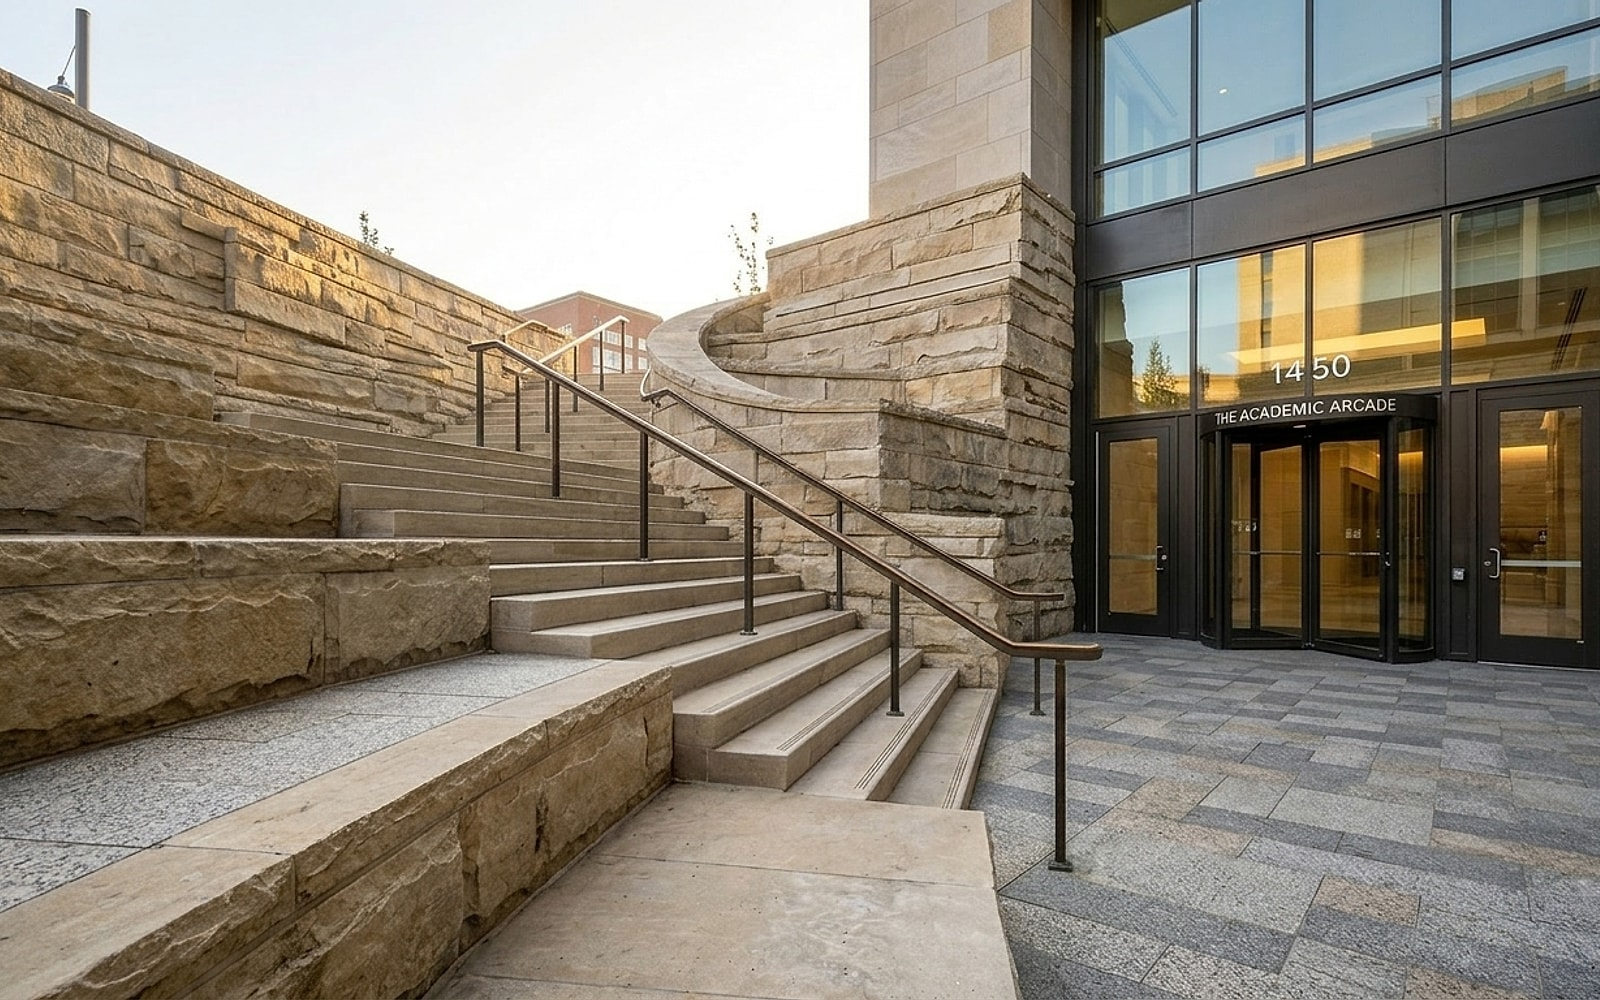
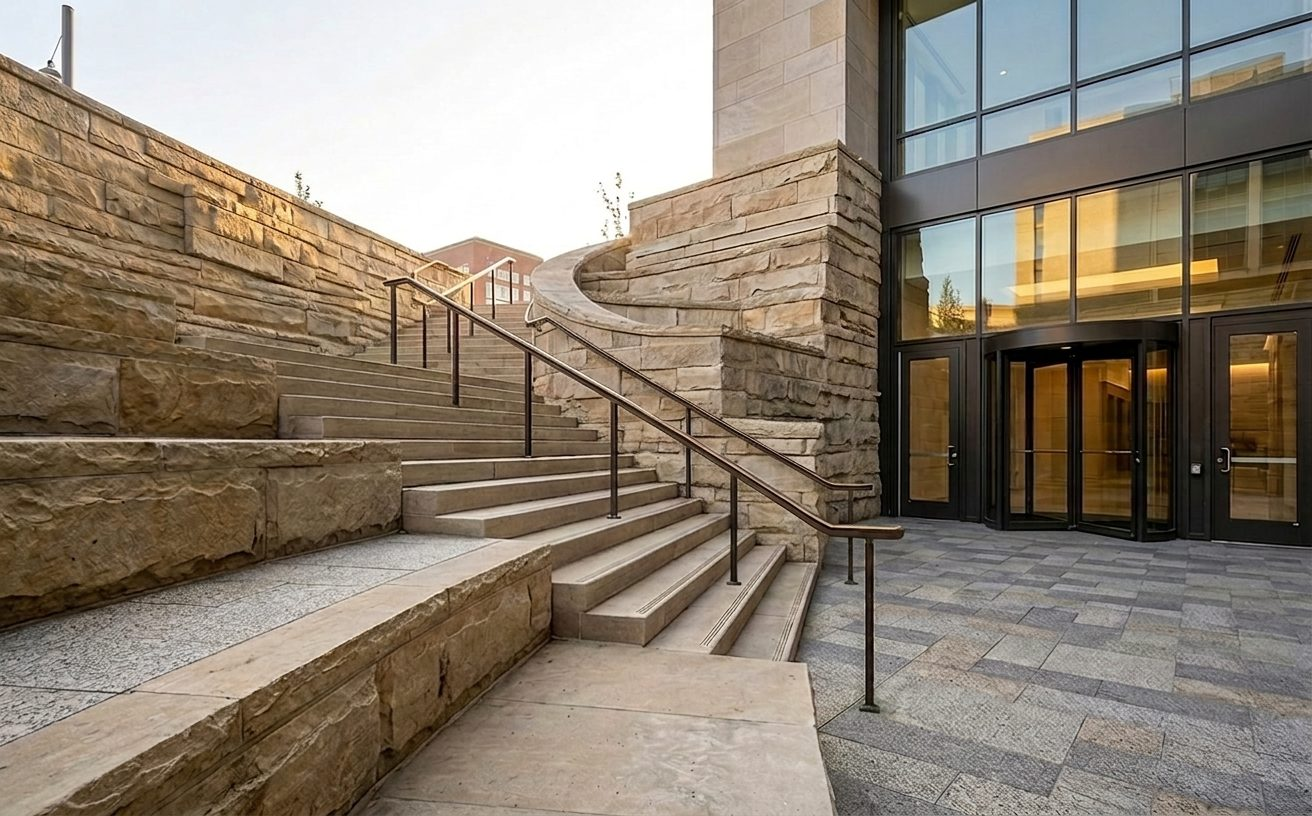
feat(fotos): 44 fotos de obra y reemplazos aprobados (HUB + MAAT), con prueba de integración
OK de Randhy, 8-nov 18:35 RD (a ATLAS): «si me gustaria verlas por el túnel primero asi que si aplicalas».
Generadas con Vertex (proyecto kofacture): 107 intentos para 44 aprobadas, revisadas una por una con
revisión adversaria de sentido (¿posible? ¿secuencia real del oficio? ¿lo reconocería un contratista?),
sin personas, sin texto ni marcas.

- 5 REEMPLAZOS en su misma ruta (sin persona, sin texto ni marca, mismo encuadre):
  cx_i2, mkt-mf-stone-entry, com-plaza-stone, mkt-com-stone-masonry, interior-commercial-boardroom-atrium.
- 39 NUEVAS de obra en public/curated/obra/<división>/ (JPG, lado largo 1600 px, 104–331 KB):
  4 de Roofing (piloto) + 35 para que cada servicio × división tenga ≥2 fotos de obra en proceso.
- tests/fixtures/obra-fotos-mapa.json: división → specialtyId → ruta → título corto (≤40, sin la
  división ni códigos).
- tests/division-obra-photos.test.ts: cada foto nueva está en la galería de su servicio con su título.
  Hoy en ROJO: falta que ATLAS las conecte en las galerías.

diff --git a/tests/division-obra-photos.test.ts b/tests/division-obra-photos.test.ts
@@ -1,0 +1,39 @@
+import { test } from 'node:test';
+import assert from 'node:assert/strict';
+import { readFileSync } from 'node:fs';
+import path from 'node:path';
+import { getMarketSpecialtiesByCategory } from '../lib/property-catalog';
+import { buildSpecialtyWalkthroughStops } from '../components/PropertyWalkthroughStudio';
+import { getDivisionExtraSpecialtyFrames } from '../components/PropertyCategoryShowcase';
+
+// Randhy, 8-nov-2026: every service gallery shows work in progress, not only finished jobs, with no
+// people, text or brands. 39 new photos (≥2 in-progress photos per service and division) were made with
+// Vertex and reviewed one by one by ARTEMIS, the HUB and PRAXIS-MAAT. The fixture says where each one
+// goes; this test checks that the gallery the viewer builds actually holds it, with its short title.
+const mapa = JSON.parse(readFileSync(path.join(__dirname, 'fixtures', 'obra-fotos-mapa.json'), 'utf8')) as {
+  nuevas: { division: 'single-family' | 'multifamily' | 'townhomes' | 'commercial'; specialtyId: string; ruta: string; titulo: string }[];
+};
+
+test('every new work-in-progress photo is in the gallery of its division and service', () => {
+  const missing: string[] = [];
+  for (const foto of mapa.nuevas) {
+    const service = getMarketSpecialtiesByCategory(foto.division).find((s) => s.specialtyId === foto.specialtyId);
+    if (!service) { missing.push(`${foto.division} ${foto.specialtyId}: no such service`); continue; }
+    const extras = getDivisionExtraSpecialtyFrames(foto.division)[foto.specialtyId];
+    const stop = buildSpecialtyWalkthroughStops(service, extras).find((s) => s.src === foto.ruta);
+    if (!stop) missing.push(`${foto.division} ${foto.specialtyId}: ${foto.ruta}`);
+  }
+  assert.deepEqual(missing, [], 'add the photo to that service gallery (and to lib/photo-specialty.ts)');
+});
+
+test('each new photo keeps the short title it was approved with', () => {
+  const wrong: string[] = [];
+  for (const foto of mapa.nuevas) {
+    const service = getMarketSpecialtiesByCategory(foto.division).find((s) => s.specialtyId === foto.specialtyId);
+    if (!service) continue;
+    const extras = getDivisionExtraSpecialtyFrames(foto.division)[foto.specialtyId];
+    const stop = buildSpecialtyWalkthroughStops(service, extras).find((s) => s.src === foto.ruta);
+    if (stop && !`${stop.title} ${stop.shortRoomName}`.includes(foto.titulo)) wrong.push(`${foto.ruta}: «${stop.title}» should read «${foto.titulo}»`);
+  }
+  assert.deepEqual(wrong, []);
+});
